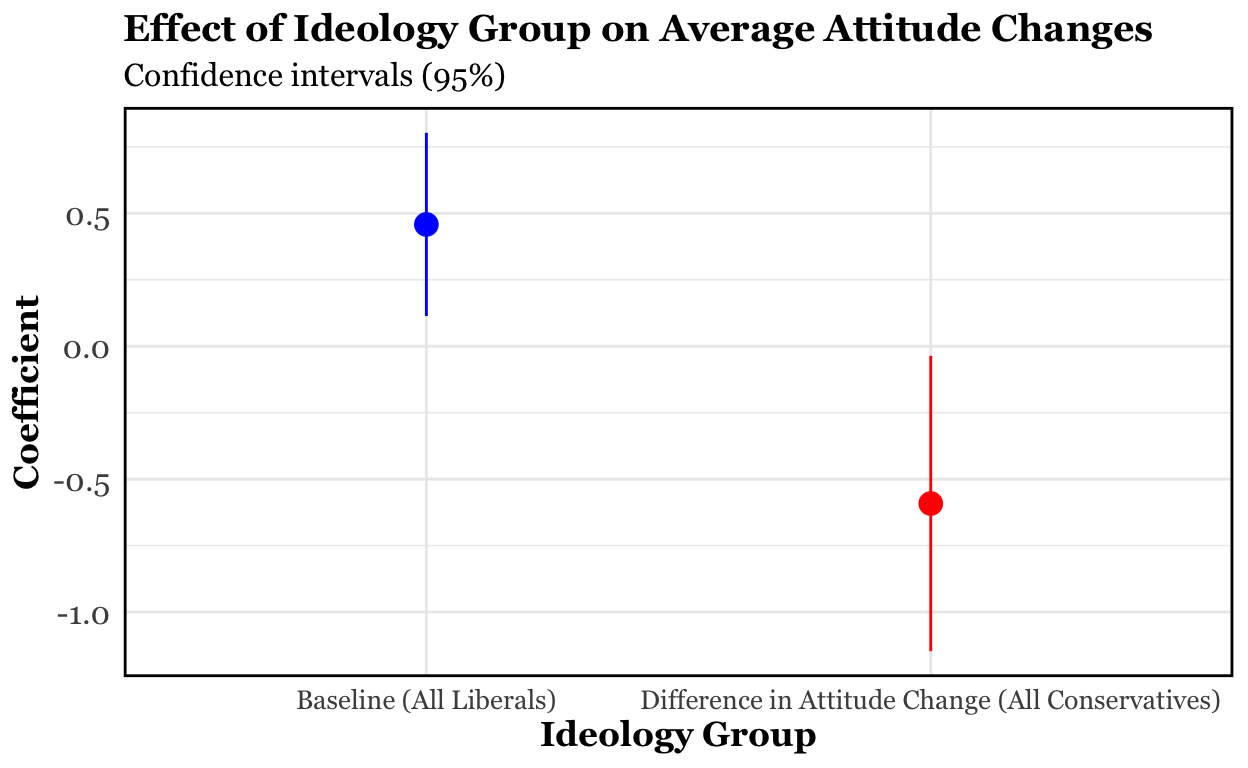
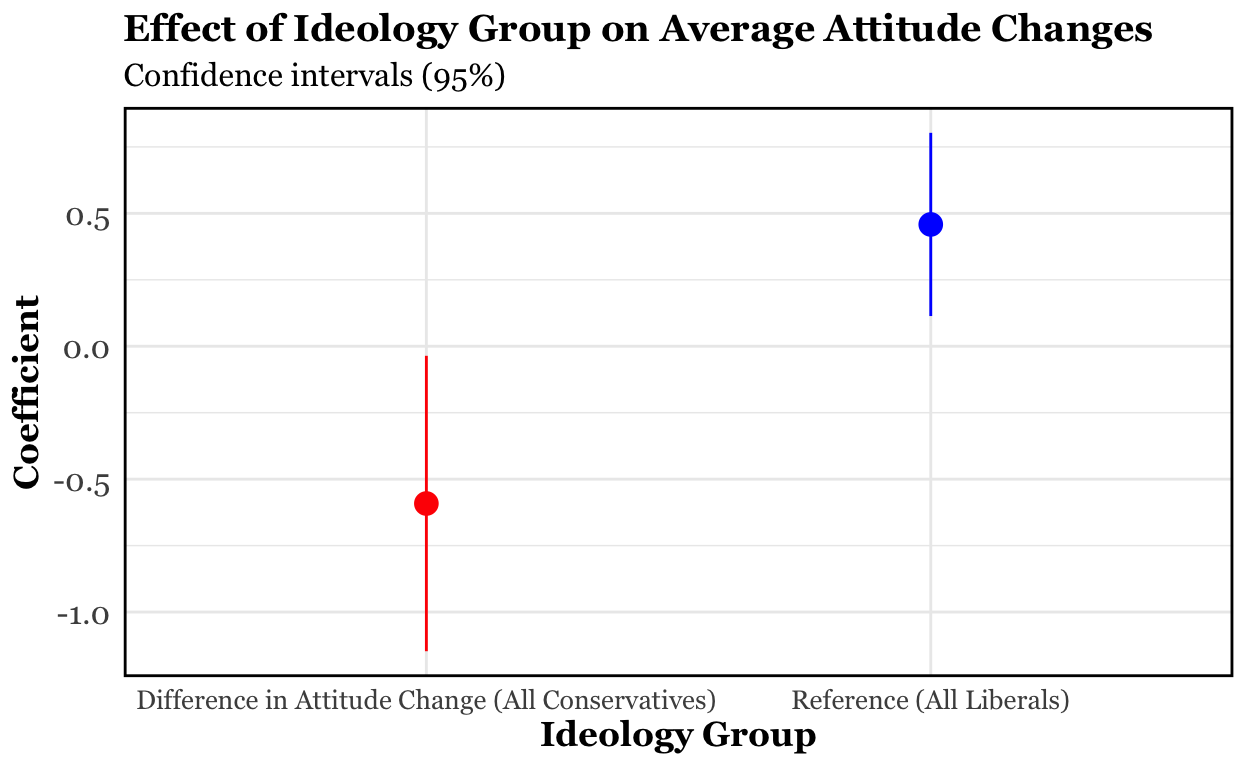
removed all r code from site and created informative labels

diff --git a/index.html b/index.html
@@ -1547,81 +1547,23 @@ code span.wa { color: #5e5e5e; font-style: italic; } /* Warning */
 <p>My research observed how political ideologies are associated with attitudes toward immigration policies, specifically looking how the level of attitude shifts regarding these policies differed depending on the political demographic of the participant. My hypothesis is that the participants with conservative ideologies will be initially less likely to support increasing the number of immigrants allowed in the country, but after interacting with foreigners they will have a greater shift in attitudes towards pro-immigration policies compared to those with liberal views. People with conservative beliefs and values tend to oppose increasing the amount of immigrants in the country, as they often perceive immigrants as a competition for jobs and resources. However, I think encountering foreigners in a casual setting may humanize them for these conservatives, shifting their beliefs to see them as individuals rather than as competition. I expect that liberals will have a smaller shift after this interaction, as they already tend to have positive attitudes towards immigration in the country.</p>
 <p>This research is significant, particularly in our country where immigration is a very politically charged topic, as it may seek to explain how individuals’ beliefs and values evolve, while also bridging the current nation-wide political divide. By exploring how there may be some common ground between conservatives and liberals, this research may be able to help dismantle political polarization and enable greater opportunities for healthy discourse that can offer potential solutions to current policy debates, in this case regarding immigration.</p>
 <h2 id="data">Data</h2>
-<h1 id="loading-the-data">Loading the data</h1>
 <div class="layout-chunk" data-layout="l-body">
-<pre><code># A tibble: 115 × 14
-     age  male income white college usborn treatment ideology
-   &lt;dbl&gt; &lt;dbl&gt;  &lt;dbl&gt; &lt;dbl&gt;   &lt;dbl&gt;  &lt;dbl&gt;     &lt;dbl&gt;    &lt;dbl&gt;
- 1    31     0 135000     1       1      1         1        3
- 2    34     0 105000     1       1      0         1        4
- 3    63     1 135000     1       1      1         1        2
- 4    45     1 300000     1       1      1         1        4
- 5    55     1 135000     1       1      1         0        2
- 6    37     0  87500     1       1      1         1        5
- 7    53     0  87500     1       0      1         0        5
- 8    36     1 135000     1       1      1         1        4
- 9    54     0 105000     1       0      1         0        3
-10    42     1 135000     1       1      1         1        4
-# ℹ 105 more rows
-# ℹ 6 more variables: numberim.pre &lt;dbl&gt;, numberim.post &lt;dbl&gt;,
-#   remain.pre &lt;dbl&gt;, remain.post &lt;dbl&gt;, english.pre &lt;dbl&gt;,
-#   english.post &lt;dbl&gt;</code></pre>
+
 </div>
 <p>The data for this research comes from a randomized field experiment conducted by Harvard Professor, Ryan Enos. He focused on individuals from overwhelmingly white communities who rode the communal train and explored how exposure to demographic change affected their political views. His study was published in the article “Causal Effect of Intergroup Contact on Exclusionary Attitudes.” In the experiment, the trains were randomly assigned to either the “Treated group” or the “Control group,” where the treatment involved the presence of two native Spanish-speaking confederates meant to simulate the predicted demographic change in the United States. Those who were in the control group never encountered the confederates. While the original experiment is a randomized experiment, my research uses a before-and-after design, as I am comparing the attitudes before and after the “treated” participants receive treatment to determine the degree of changes in attitudes that the participants experience.</p>
 <p>The independent variable is the political ideologies of the participants, measured by the survey data for each participant from the experiment. Political ideologies are likely to impact individuals’ pre-existing beliefs, which would set a baseline for their attitudes towards immigration before treatment, and may impact their responses to treatment. Through this method, we can determine how the treatment effects differ depending on the participants’ political ideology.</p>
 <p>The dependent variable, the participants’ shift in attitudes regarding immigration policies, is measured using a survey question on a 5 point Likert scale, before and after the treatment. Participants were asked whether or not the number of immigrants in the country should increase or decrease, where a score of 1 indicates the participant believes the number of immigrants should increase and a score of 5 indicates the participant believes the number of immigrants should decrease. The attitude shift of each ideology group is represented by the difference between their responses before and after treatment.</p>
-<h1 id="creating-descriptive-labels-for-the-numerical-values">Creating descriptive labels for the numerical values</h1>
 <div class="layout-chunk" data-layout="l-body">
-<pre><code># A tibble: 115 × 15
-     age  male income white college usborn treatment ideology
-   &lt;dbl&gt; &lt;dbl&gt;  &lt;dbl&gt; &lt;dbl&gt;   &lt;dbl&gt;  &lt;dbl&gt;     &lt;dbl&gt;    &lt;dbl&gt;
- 1    31     0 135000     1       1      1         1        3
- 2    34     0 105000     1       1      0         1        4
- 3    63     1 135000     1       1      1         1        2
- 4    45     1 300000     1       1      1         1        4
- 5    55     1 135000     1       1      1         0        2
- 6    37     0  87500     1       1      1         1        5
- 7    53     0  87500     1       0      1         0        5
- 8    36     1 135000     1       1      1         1        4
- 9    54     0 105000     1       0      1         0        3
-10    42     1 135000     1       1      1         1        4
-# ℹ 105 more rows
-# ℹ 7 more variables: numberim.pre &lt;dbl&gt;, numberim.post &lt;dbl&gt;,
-#   remain.pre &lt;dbl&gt;, remain.post &lt;dbl&gt;, english.pre &lt;dbl&gt;,
-#   english.post &lt;dbl&gt;, ideology_group &lt;chr&gt;</code></pre>
+
 </div>
-<h1 id="creating-a-variable-for-the-treated-groups-attitudes-before-treatment">Creating a variable for the “Treated” group’s attitudes before treatment</h1>
 <div class="layout-chunk" data-layout="l-body">
-<pre><code># A tibble: 5 × 3
-  ideology_group       numberim.pre pre_treatment
-  &lt;chr&gt;                       &lt;dbl&gt;         &lt;dbl&gt;
-1 1. Most Liberal              3             3   
-2 2. Liberal                   2.26          2.26
-3 3. Moderate                  3.33          3.33
-4 4. Conservative              3.55          3.55
-5 5. Most Conservative         4             4   </code></pre>
+
 </div>
-<h1 id="creating-a-variable-for-the-treated-groups-attitudes-after-treatment">Creating a variable for the “Treated” group’s attitudes after treatment</h1>
 <div class="layout-chunk" data-layout="l-body">
-<pre><code># A tibble: 5 × 3
-  ideology_group       numberim.post post_treatment
-  &lt;chr&gt;                        &lt;dbl&gt;          &lt;dbl&gt;
-1 1. Most Liberal               3.2            3.2 
-2 2. Liberal                    2.79           2.79
-3 3. Moderate                   3.08           3.08
-4 4. Conservative               3.64           3.64
-5 5. Most Conservative          3.25           3.25</code></pre>
+
 </div>
-<h1 id="creating-a-variable-to-indicate-the-participants-average-change-in-attitudes">Creating a variable to indicate the participants average change in attitudes</h1>
 <div class="layout-chunk" data-layout="l-body">
-<pre><code># A tibble: 5 × 4
-  ideology_group       numberim.post numberim.pre average_change
-  &lt;chr&gt;                        &lt;dbl&gt;        &lt;dbl&gt;          &lt;dbl&gt;
-1 1. Most Liberal               3.2          3            0.200 
-2 2. Liberal                    2.79         2.26         0.526 
-3 3. Moderate                   3.08         3.33        -0.25  
-4 4. Conservative               3.64         3.55         0.0909
-5 5. Most Conservative          3.25         4           -0.75  </code></pre>
+
 </div>
 <h1 id="visualization-for-each-ideology-groups-attitudes-before-treatment">Visualization for each ideology group’s attitudes before treatment</h1>
 <div class="layout-chunk" data-layout="l-body">
@@ -1639,38 +1581,20 @@ code span.wa { color: #5e5e5e; font-style: italic; } /* Warning */
 <p><img src="index_files/figure-html5/unnamed-chunk-8-1.png" width="624" /></p>
 </div>
 <p>To create a clearer analysis to observe how the levels of attitude changes differed between ideological groups after treatment, I combined the “Most Liberal” and “Liberal” participants into an “All Liberals” group, and combined the “Conservative” and “Most Conservative” participants into an “All Conservatives” group. Taking the average scores for each category, I merged them to create the overall group averages for “All Liberals” and “All Conservatives”, showing the average group changes from before and after treatment. Although individually, the “Most Conservative” group experienced a large shift in attitudes, the graph shows that after treatment, on average all conservative participants experienced only a slight shift towards positive attitudes. Additionally, on average, all liberal participants experienced a greater shift towards negative attitudes.</p>
-<h1 id="creating-a-binary-variable-based-on-ideology-group">Creating a binary variable based on ideology group</h1>
 <div class="layout-chunk" data-layout="l-body">
-<pre><code># A tibble: 39 × 17
-     age  male income white college usborn treatment ideology
-   &lt;dbl&gt; &lt;dbl&gt;  &lt;dbl&gt; &lt;dbl&gt;   &lt;dbl&gt;  &lt;dbl&gt; &lt;chr&gt;        &lt;dbl&gt;
- 1    34     0 105000     1       1      0 Treated          4
- 2    63     1 135000     1       1      1 Treated          2
- 3    45     1 300000     1       1      1 Treated          4
- 4    37     0  87500     1       1      1 Treated          5
- 5    36     1 135000     1       1      1 Treated          4
- 6    42     1 135000     1       1      1 Treated          4
- 7    50     1 250000     1       1      1 Treated          4
- 8    24     1 105000     1       1      1 Treated          4
- 9    33     1 250000     0       1      0 Treated          1
-10    32     0 250000     1       1      1 Treated          2
-# ℹ 29 more rows
-# ℹ 9 more variables: numberim.pre &lt;dbl&gt;, numberim.post &lt;dbl&gt;,
-#   remain.pre &lt;dbl&gt;, remain.post &lt;dbl&gt;, english.pre &lt;dbl&gt;,
-#   english.post &lt;dbl&gt;, ideology_group &lt;chr&gt;, average_change &lt;dbl&gt;,
-#   binary_variable &lt;dbl&gt;</code></pre>
+
 </div>
 <h1 id="regression-output-of-the-relationship-between-ideology-groups-and-average-change-in-attitudes">Regression output of the relationship between ideology groups and average change in attitudes</h1>
 <div class="layout-chunk" data-layout="l-body">
 <table>
 <colgroup>
-<col style="width: 14%" />
-<col style="width: 10%" />
-<col style="width: 13%" />
+<col style="width: 20%" />
+<col style="width: 9%" />
+<col style="width: 12%" />
 <col style="width: 8%" />
-<col style="width: 7%" />
-<col style="width: 23%" />
-<col style="width: 23%" />
+<col style="width: 6%" />
+<col style="width: 21%" />
+<col style="width: 21%" />
 </colgroup>
 <thead>
 <tr class="header">
@@ -1685,7 +1609,7 @@ code span.wa { color: #5e5e5e; font-style: italic; } /* Warning */
 </thead>
 <tbody>
 <tr class="odd">
-<td style="text-align: left;">(Intercept)</td>
+<td style="text-align: left;">Reference</td>
 <td style="text-align: right;">0.458</td>
 <td style="text-align: right;">0.170</td>
 <td style="text-align: right;">2.695</td>
@@ -1694,7 +1618,7 @@ code span.wa { color: #5e5e5e; font-style: italic; } /* Warning */
 <td style="text-align: right;">0.803</td>
 </tr>
 <tr class="even">
-<td style="text-align: left;">binary_variable</td>
+<td style="text-align: left;">Conservative vs. Liberal</td>
 <td style="text-align: right;">-0.592</td>
 <td style="text-align: right;">0.274</td>
 <td style="text-align: right;">-2.157</td>
@@ -1715,7 +1639,7 @@ code span.wa { color: #5e5e5e; font-style: italic; } /* Warning */
 <h2 id="conclusion">Conclusion</h2>
 <p>Initially, the data aligned with my hypothesis. Conservatives started out with the most negative views on immigration, and on average, after encountering the confederates, they experienced a shift towards more favorable attitudes on immigration compared to liberals. While they did shift toward more positive views, their shift in overall attitudes was much smaller than liberals’, indicating that they acted more conservatively. Additionally, unlike what I expected, liberals actually experienced a shift toward more negative attitudes. The p-value from the regression output indicates that the main coefficient is statistically significant, supporting the data that show there is a meaningful difference in the attitude shifts between the two ideology groups. This result suggests that the attitude shifts of each ideology group differed from my original expectations, therefore proving my hypothesis was not supported by the data.</p>
 <p>The presence of external influences as confounding factors is one of the most significant limitations of this research. Because this experiment used a before-and-after research design, the results don’t consider the possible external influences, such as peer interactions, media exposure, or major events that could affect the participants’ shifts in attitudes. Therefore, through the fundamental problem of causal inference, it is impossible to determine the confederate interaction is the direct cause of the attitude shifts between the two ideology groups. To improve my analysis, I would increase the sample size of the experiment. The current confidence interval is relatively wide, meaning that there is more uncertainty regarding the reliability of the coefficient from the regression. A larger sample size would create narrower confidence intervals and would reduce the margin of error. This would decrease the range of the effect’s true value, providing a more precise and accurate estimate of the change in attitudes towards immigration for each ideology group. Additionally, there were significant disparities in attitude shifts between the specific categories of ideologies compared to the overall ideology groups (“All Liberals” and “All Conservatives”). Therefore, a bigger sample sample size would raise the applicability of the results, making them more representative of a wider population. This would improve the reliability and certainty of the analysis, making it more likely that a true effect and difference could be observed observed if it exists.</p>
-<div class="sourceCode" id="cb7"><pre class="sourceCode r distill-force-highlighting-css"><code class="sourceCode r"></code></pre></div>
+<div class="sourceCode" id="cb1"><pre class="sourceCode r distill-force-highlighting-css"><code class="sourceCode r"></code></pre></div>
 <!--radix_placeholder_article_footer-->
 <!--/radix_placeholder_article_footer-->
 </div>
